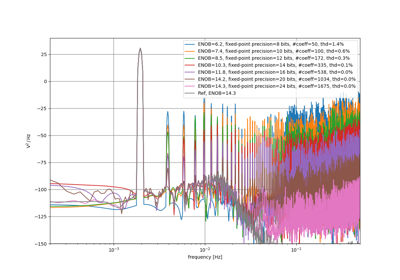
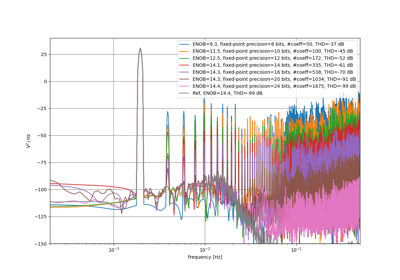
minor modifications to documentation (#50)
* added harmonic distortion

* refinements to tutorial

Changed region(s): [[0.45, 0.1429, 0.9, 0.3429]]

diff --git a/docs/code_examples/b_general/plot_e_fixed_point_aritmetics.py b/docs/code_examples/b_general/plot_e_fixed_point_aritmetics.py
@@ -200,6 +200,7 @@ for index_de, bits in enumerate(fixed_point_precision):
     noise_index = np.ones(psd.size, dtype=bool)
     noise_index[signal_index] = False
     noise_index[0:2] = False
+    noise_index[harmonics_index] = False
     noise_index[size // OSR :] = False
     res = cbadc.utilities.snr_spectrum_computation_extended(
         psd, signal_index, noise_index, harmonics_mask=harmonics_index, fs=1 / T
@@ -207,7 +208,7 @@ for index_de, bits in enumerate(fixed_point_precision):
     SNR = 10 * np.log10(res["snr"])
     ENOB = np.round((SNR - 1.76) / 6.02, 1)
     description.append(
-        f"ENOB={ENOB}, fixed-point precision={bits} bits, #coeff={digital_estimators[index_de].number_of_filter_coefficients()}, thd={round(res['thd']*100, 1)}%"
+        f"ENOB={ENOB}, fixed-point precision={bits} bits, #coeff={digital_estimators[index_de].number_of_filter_coefficients()}, THD={round(20 * np.log10(res['thd']))} dB"
     )
     # Plot the FIR filters
     plt.semilogx(f, 10 * np.log10(psd), label=description[-1])
@@ -239,13 +240,14 @@ harmonics_index = np.array(harmonics_index).flatten()
 noise_index = np.ones(psd_ref.size, dtype=bool)
 noise_index[signal_index] = False
 noise_index[0:2] = False
+noise_index[harmonics_index] = False
 noise_index[size // OSR :] = False
 res = cbadc.utilities.snr_spectrum_computation_extended(
     psd_ref, signal_index, noise_index, harmonics_mask=harmonics_index, fs=1 / T
 )
 SNR = 10 * np.log10(res["snr"])
 ENOB = np.round((SNR - 1.76) / 6.02, 1)
-description.append(f"Ref, ENOB={ENOB}")
+description.append(f"Ref, ENOB={ENOB}, THD={round(20 * np.log10(res['thd']))} dB")
 
 plt.semilogx(f_ref, 10 * np.log10(psd_ref), label=description[-1])
 

diff --git a/docs/source/tutorials/b_general/plot_e_fixed_point_aritmetics.py b/docs/source/tutorials/b_general/plot_e_fixed_point_aritmetics.py
@@ -200,6 +200,7 @@ for index_de, bits in enumerate(fixed_point_precision):
     noise_index = np.ones(psd.size, dtype=bool)
     noise_index[signal_index] = False
     noise_index[0:2] = False
+    noise_index[harmonics_index] = False
     noise_index[size // OSR :] = False
     res = cbadc.utilities.snr_spectrum_computation_extended(
         psd, signal_index, noise_index, harmonics_mask=harmonics_index, fs=1 / T
@@ -207,7 +208,7 @@ for index_de, bits in enumerate(fixed_point_precision):
     SNR = 10 * np.log10(res["snr"])
     ENOB = np.round((SNR - 1.76) / 6.02, 1)
     description.append(
-        f"ENOB={ENOB}, fixed-point precision={bits} bits, #coeff={digital_estimators[index_de].number_of_filter_coefficients()}, thd={round(res['thd']*100, 1)}%"
+        f"ENOB={ENOB}, fixed-point precision={bits} bits, #coeff={digital_estimators[index_de].number_of_filter_coefficients()}, THD={round(20 * np.log10(res['thd']))} dB"
     )
     # Plot the FIR filters
     plt.semilogx(f, 10 * np.log10(psd), label=description[-1])
@@ -239,13 +240,14 @@ harmonics_index = np.array(harmonics_index).flatten()
 noise_index = np.ones(psd_ref.size, dtype=bool)
 noise_index[signal_index] = False
 noise_index[0:2] = False
+noise_index[harmonics_index] = False
 noise_index[size // OSR :] = False
 res = cbadc.utilities.snr_spectrum_computation_extended(
     psd_ref, signal_index, noise_index, harmonics_mask=harmonics_index, fs=1 / T
 )
 SNR = 10 * np.log10(res["snr"])
 ENOB = np.round((SNR - 1.76) / 6.02, 1)
-description.append(f"Ref, ENOB={ENOB}")
+description.append(f"Ref, ENOB={ENOB}, THD={round(20 * np.log10(res['thd']))} dB")
 
 plt.semilogx(f_ref, 10 * np.log10(psd_ref), label=description[-1])
 

diff --git a/docs/source/tutorials/b_general/plot_e_fixed_point_aritmetics.rst b/docs/source/tutorials/b_general/plot_e_fixed_point_aritmetics.rst
@@ -396,7 +396,7 @@ Resulting Estimate Precision
 ----------------------------
 
 
-.. GENERATED FROM PYTHON SOURCE LINES 180-272
+.. GENERATED FROM PYTHON SOURCE LINES 180-274
 
 .. code-block:: default
    :lineno-start: 181
@@ -424,6 +424,7 @@ Resulting Estimate Precision
         noise_index = np.ones(psd.size, dtype=bool)
         noise_index[signal_index] = False
         noise_index[0:2] = False
+        noise_index[harmonics_index] = False
         noise_index[size // OSR :] = False
         res = cbadc.utilities.snr_spectrum_computation_extended(
             psd, signal_index, noise_index, harmonics_mask=harmonics_index, fs=1 / T
@@ -431,7 +432,7 @@ Resulting Estimate Precision
         SNR = 10 * np.log10(res["snr"])
         ENOB = np.round((SNR - 1.76) / 6.02, 1)
         description.append(
-            f"ENOB={ENOB}, fixed-point precision={bits} bits, #coeff={digital_estimators[index_de].number_of_filter_coefficients()}, thd={round(res['thd']*100, 1)}%"
+            f"ENOB={ENOB}, fixed-point precision={bits} bits, #coeff={digital_estimators[index_de].number_of_filter_coefficients()}, THD={round(20 * np.log10(res['thd']))} dB"
         )
         # Plot the FIR filters
         plt.semilogx(f, 10 * np.log10(psd), label=description[-1])
@@ -463,13 +464,14 @@ Resulting Estimate Precision
     noise_index = np.ones(psd_ref.size, dtype=bool)
     noise_index[signal_index] = False
     noise_index[0:2] = False
+    noise_index[harmonics_index] = False
     noise_index[size // OSR :] = False
     res = cbadc.utilities.snr_spectrum_computation_extended(
         psd_ref, signal_index, noise_index, harmonics_mask=harmonics_index, fs=1 / T
     )
     SNR = 10 * np.log10(res["snr"])
     ENOB = np.round((SNR - 1.76) / 6.02, 1)
-    description.append(f"Ref, ENOB={ENOB}")
+    description.append(f"Ref, ENOB={ENOB}, THD={round(20 * np.log10(res['thd']))} dB")
 
     plt.semilogx(f_ref, 10 * np.log10(psd_ref), label=description[-1])
 
@@ -518,7 +520,7 @@ Resulting Estimate Precision
 
 .. rst-class:: sphx-glr-timing
 
-   **Total running time of the script:** ( 1 minutes  39.459 seconds)
+   **Total running time of the script:** ( 1 minutes  41.659 seconds)
 
 
 .. _sphx_glr_download_tutorials_b_general_plot_e_fixed_point_aritmetics.py:

diff --git a/docs/source/tutorials/b_general/sg_execution_times.rst b/docs/source/tutorials/b_general/sg_execution_times.rst
@@ -5,10 +5,10 @@
 
 Computation times
 =================
-**01:39.459** total execution time for **tutorials_b_general** files:
+**01:41.659** total execution time for **tutorials_b_general** files:
 
 +-------------------------------------------------------------------------------------------------------------+-----------+--------+
-| :ref:`sphx_glr_tutorials_b_general_plot_e_fixed_point_aritmetics.py` (``plot_e_fixed_point_aritmetics.py``) | 01:39.459 | 0.0 MB |
+| :ref:`sphx_glr_tutorials_b_general_plot_e_fixed_point_aritmetics.py` (``plot_e_fixed_point_aritmetics.py``) | 01:41.659 | 0.0 MB |
 +-------------------------------------------------------------------------------------------------------------+-----------+--------+
 | :ref:`sphx_glr_tutorials_b_general_plot_a_compare_estimator.py` (``plot_a_compare_estimator.py``)           | 00:00.000 | 0.0 MB |
 +-------------------------------------------------------------------------------------------------------------+-----------+--------+
